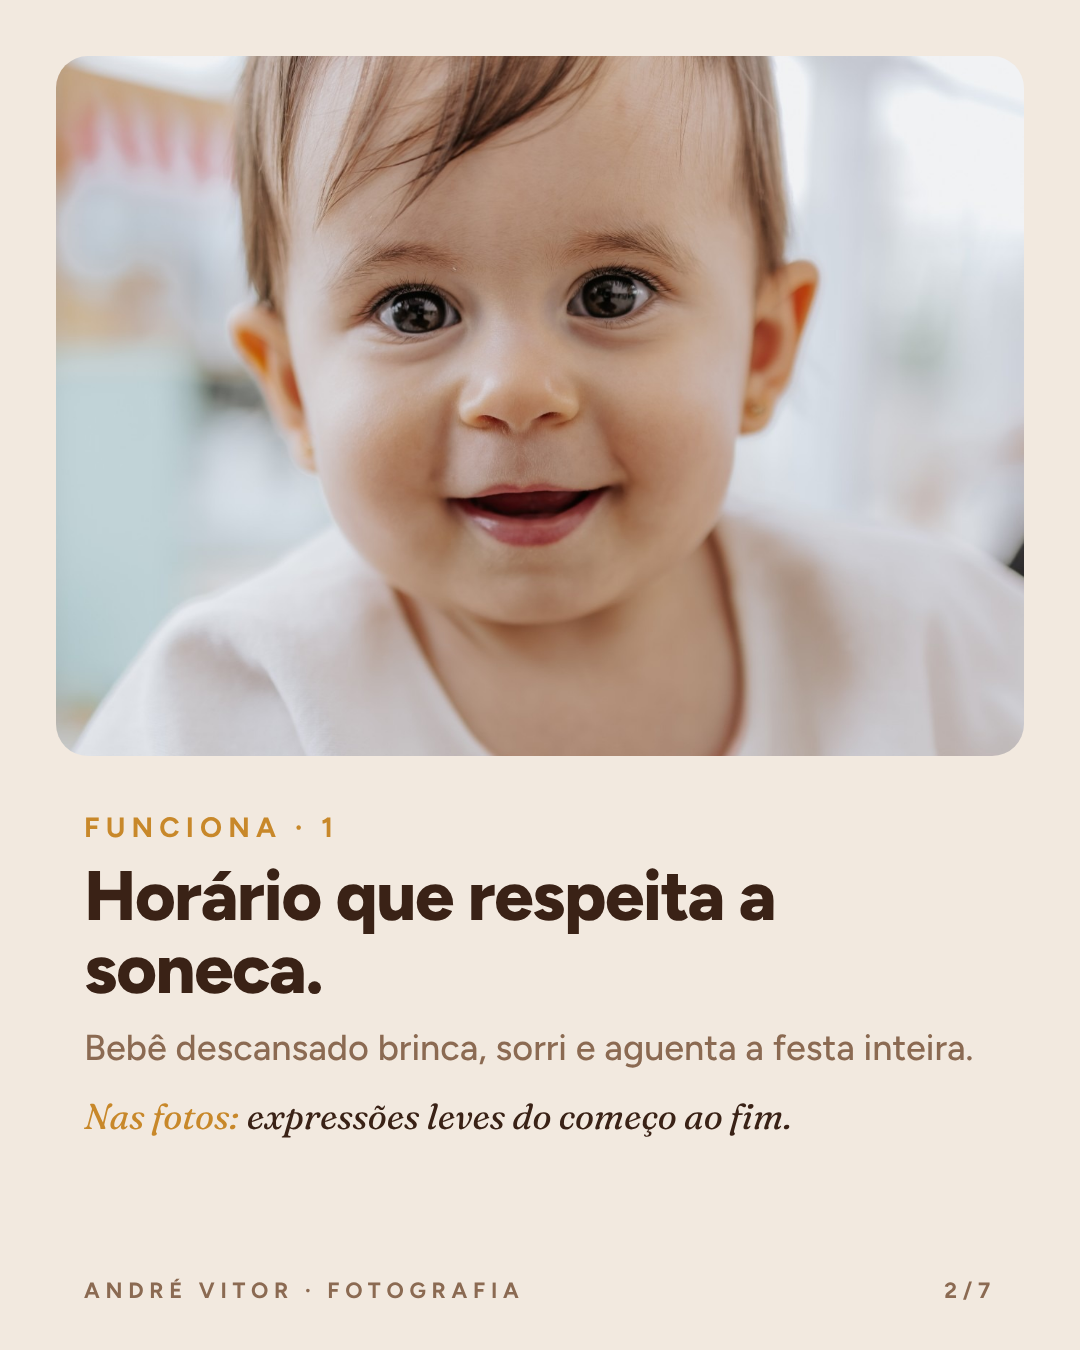
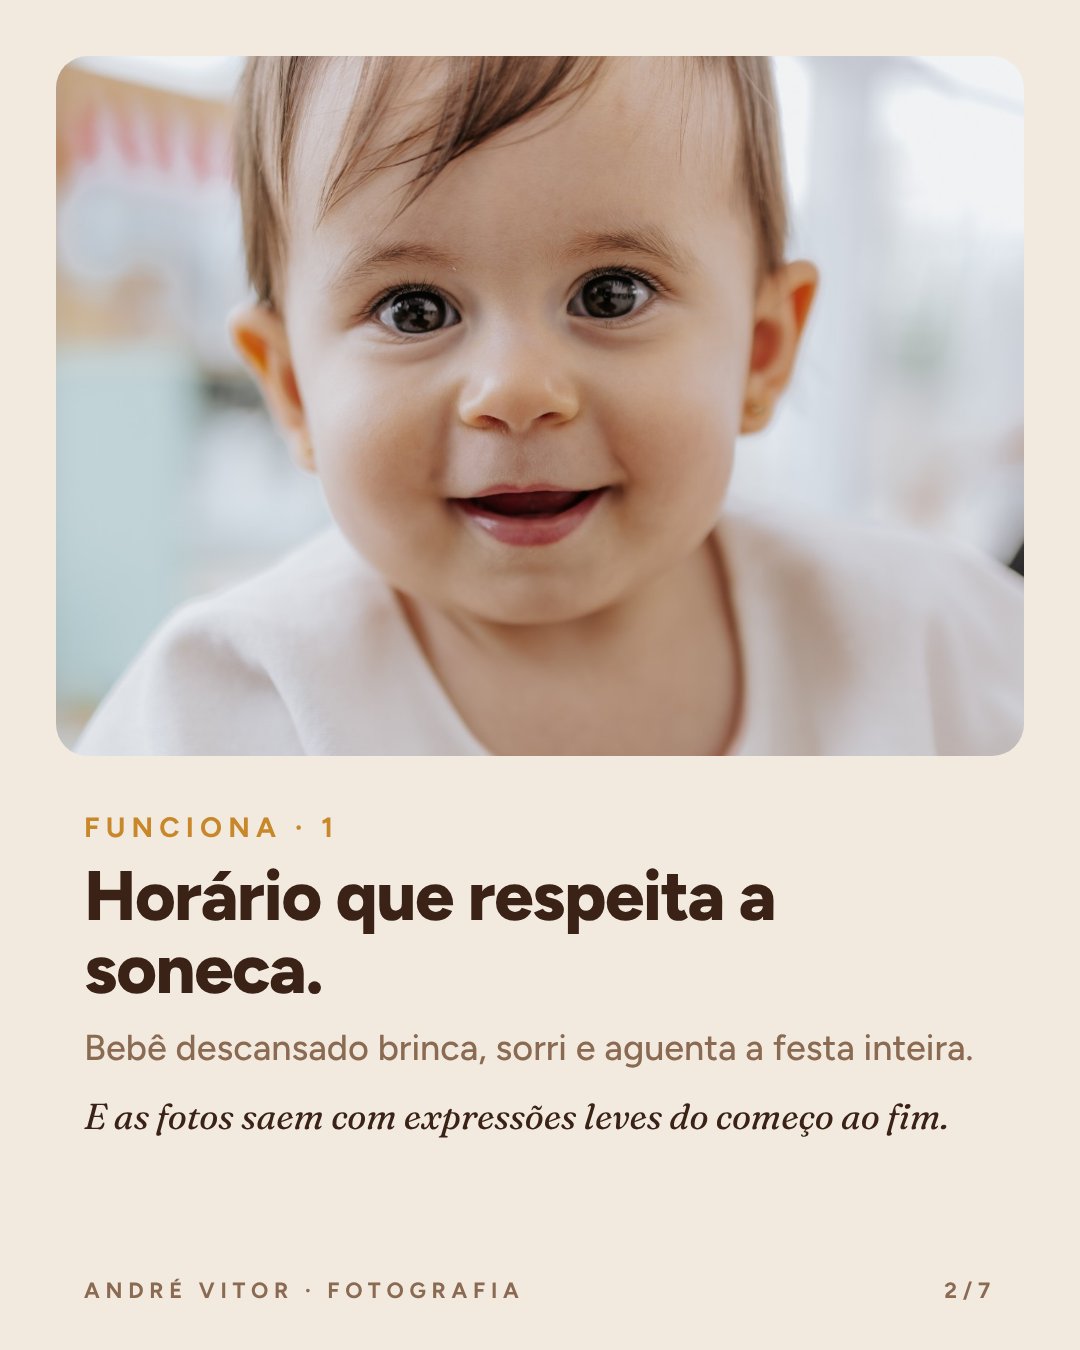
Carrossel 1 ano: frases corridas no lugar do rótulo 'Nas fotos'
Claude-Session: https://claude.ai/code/session_01V8X75n2knntE3NdxPFh2K8

Changed region(s): [[0.0611, 0.8089, 0.8861, 0.84]]

diff --git a/carrossel-1ano/slides.html b/carrossel-1ano/slides.html
@@ -87,7 +87,7 @@
     <p class="kicker">Funciona · 1</p>
     <h2 class="titulo">Horário que respeita a soneca.</h2>
     <p class="sub">Bebê descansado brinca, sorri e aguenta a festa inteira.</p>
-    <p class="nas-fotos"><span>Nas fotos:</span> expressões leves do começo ao fim.</p>
+    <p class="nas-fotos">E as fotos saem com expressões leves do começo ao fim.</p>
   </div>
   <div class="rodape"><span>André Vitor · Fotografia</span><span>2/7</span></div>
 </section>
@@ -99,7 +99,7 @@
     <p class="kicker">Funciona · 2</p>
     <h2 class="titulo">Parabéns na primeira metade da festa.</h2>
     <p class="sub">Lá pelo fim, o cansaço chega e o parabéns vira choro.</p>
-    <p class="nas-fotos"><span>Nas fotos:</span> o bebê tranquilo e curioso na hora mais importante.</p>
+    <p class="nas-fotos">E você tem o bebê tranquilo e curioso na hora mais importante.</p>
   </div>
   <div class="rodape"><span>André Vitor · Fotografia</span><span>3/7</span></div>
 </section>
@@ -114,7 +114,7 @@
     <p class="kicker">Funciona · 3</p>
     <h2 class="titulo">Um cantinho do tamanho dele.</h2>
     <p class="sub">Tapete, bolinhas, instrumentos, brinquedos de encaixe.</p>
-    <p class="nas-fotos"><span>Nas fotos:</span> brincadeira de verdade, sem precisar de pose.</p>
+    <p class="nas-fotos">E rende brincadeira de verdade, sem precisar de pose.</p>
   </div>
   <div class="rodape"><span>André Vitor · Fotografia</span><span>4/7</span></div>
 </section>
@@ -126,7 +126,7 @@
     <p class="kicker">Funciona · 4</p>
     <h2 class="titulo">Roupa confortável (e uma reserva).</h2>
     <p class="sub">Bebê que engatinha precisa de liberdade. E sempre tem bolo, suco ou baba no caminho.</p>
-    <p class="nas-fotos"><span>Nas fotos:</span> ele livre pra explorar a festa toda.</p>
+    <p class="nas-fotos">E ele fica livre pra explorar a festa toda.</p>
   </div>
   <div class="rodape"><span>André Vitor · Fotografia</span><span>5/7</span></div>
 </section>
